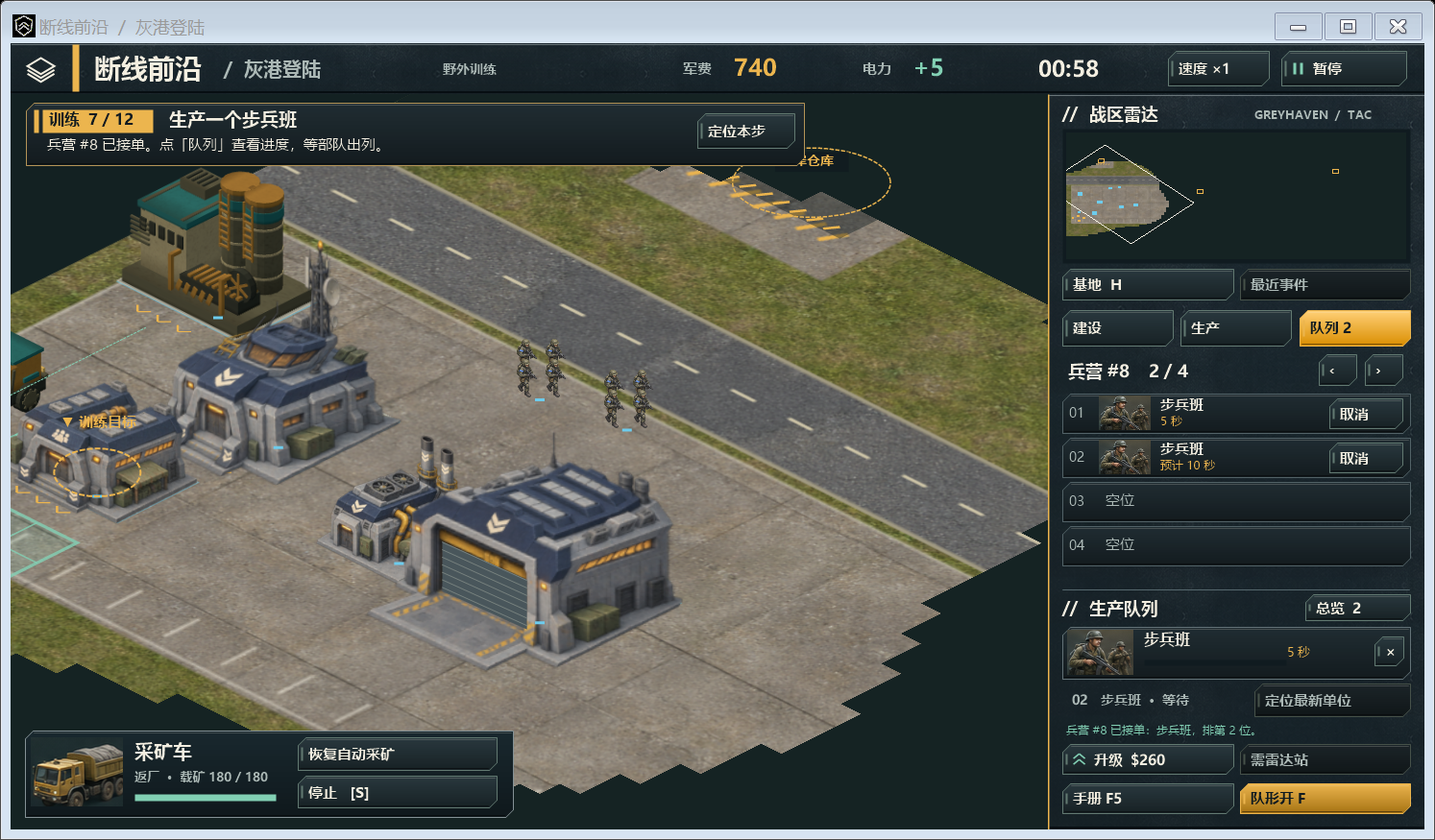
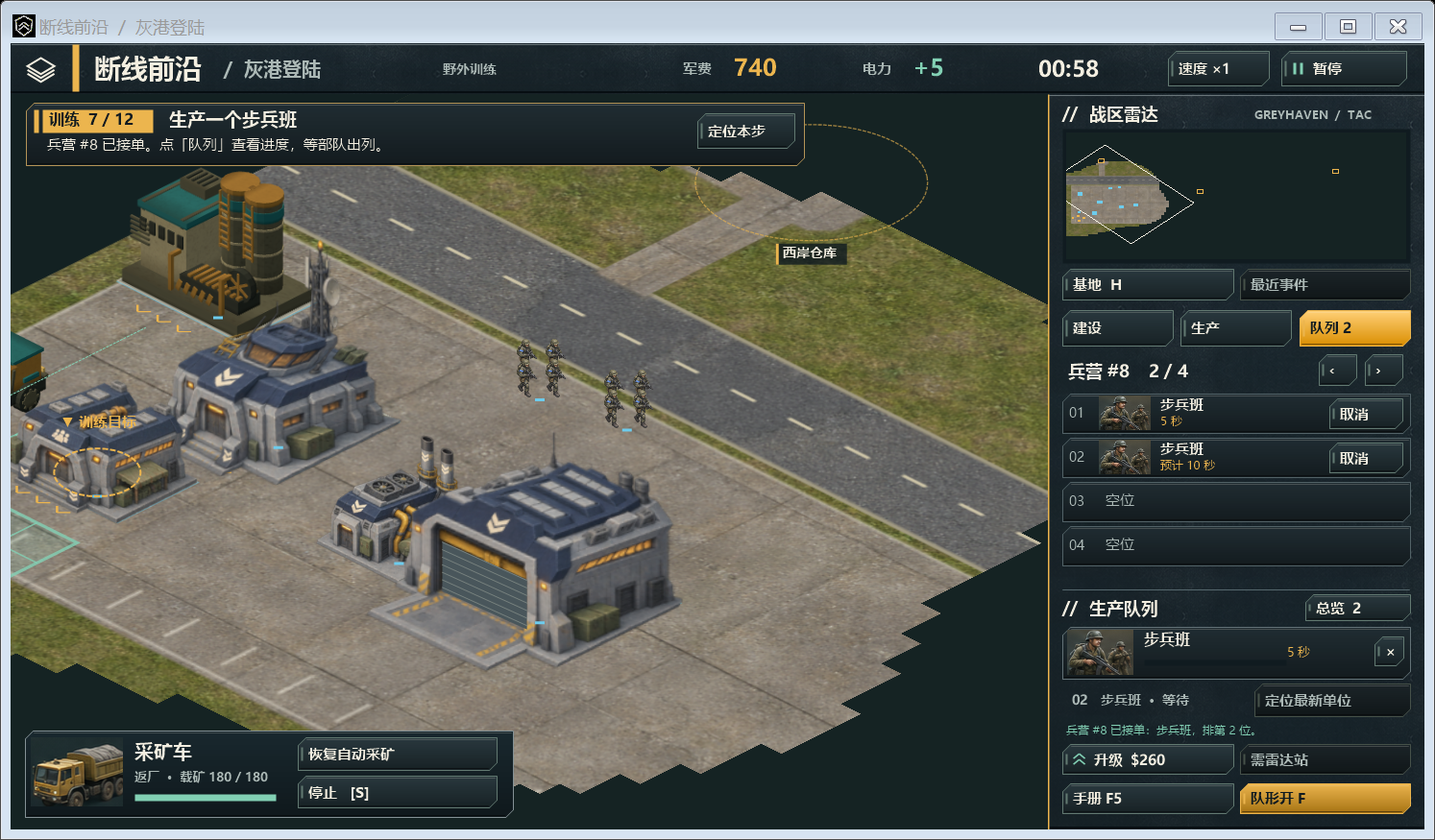
修正仓库接地与车道，支持战场八向边缘滚屏

Changed region(s): [[0.4003, 0.1851, 0.6466, 0.3703]]

diff --git a/src/IsometricField.cs b/src/IsometricField.cs
@@ -14,6 +14,24 @@ partial class CommandWindow {
  PointF WorldOf(PointF s){float a=(s.X-MW*.5f)/(Axis*zoom),b=(s.Y-MapTop-MH*.5f)/(Rise*zoom);return new PointF(camera.X+(b+a)/2,camera.Y+(b-a)/2);}
  void CenterAt(PointF p){camera=new PointF(Math.Max(0,Math.Min(Campaign.Width,p.X)),Math.Max(0,Math.Min(Campaign.Height,p.Y)));}
  void Pan(float x,float y){CenterAt(WorldOf(new PointF(MW/2+x,MapTop+MH/2+y)));}
+ bool pointerInside;float edgeDwell;
+ void ResetEdgeScroll(){pointerInside=false;edgeDwell=0;}
+ protected override void OnMouseLeave(EventArgs e){base.OnMouseLeave(e);ResetEdgeScroll();}
+ static float EdgeSpeed(float position,float extent){
+  const float band=22;
+  if(position<band)return -(1-position/band);
+  return position>extent-band?(position-extent+band)/band:0;
+ }
+ void EdgeScroll(float dt){
+  if(!pointerInside||briefing||paused||world.Won||world.Lost||drag||panning||
+     mouse.X<0||mouse.X>=MW||mouse.Y<MapTop||mouse.Y>=MapTop+MH){edgeDwell=0;return;}
+  float x=EdgeSpeed(mouse.X,MW),y=EdgeSpeed(mouse.Y-MapTop,MH);
+  if((x==0&&y==0)||hits.Any(h=>h.Box.Contains(mouse))){edgeDwell=0;return;}
+  edgeDwell+=dt;if(edgeDwell<=.12f)return;
+  float ramp=Math.Min(1,(edgeDwell-.12f)/.16f);
+  float speed=660*dt*ramp/Math.Max(1,(float)Math.Sqrt(x*x+y*y));
+  Pan(x*speed,y*speed);
+ }
  protected override void OnMouseWheel(MouseEventArgs e){base.OnMouseWheel(e);var p=ToScreenPoint(e);if(briefing||paused||p.X<0||p.X>=MW||p.Y<MapTop||p.Y>=MapTop+MH)return;
   var before=WorldOf(p);zoom=Math.Max(.62f,Math.Min(3.1f,zoom*(float)Math.Pow(1.18,e.Delta/120.0)));var after=WorldOf(p);CenterAt(new PointF(camera.X+before.X-after.X,camera.Y+before.Y-after.Y));Invalidate();}
  void GroundSpace(Graphics g){var origin=ScreenOf(PointF.Empty);using(var m=new Matrix(Axis*zoom,Rise*zoom,-Axis*zoom,Rise*zoom,origin.X,origin.Y))g.MultiplyTransform(m);}
@@ -89,14 +107,13 @@ partial class CommandWindow {
     }
    }
   }
-  foreach(var site in world.Sites){var p=ScreenOf(site.P);if(p.X< -110||p.X>MW+110||p.Y<MapTop-90||p.Y>MapTop+MH+90)continue;bool seen=world.Explored(0,site.P);Color c=seen&&site.Owner>=0?Team(site.Owner):gold;
-   using(var pen=new Pen(c,1.5f)){pen.DashStyle=DashStyle.Dash;g.DrawEllipse(pen,p.X-41*zoom,p.Y-18*zoom,82*zoom,36*zoom);}
-   Rect(g,p.X-38,p.Y-32,77,21,Color.FromArgb(211,ink));Txt(g,site.Name,p.X-32,p.Y-32,14,c,true);
-   if(seen)Line(g,p.X,p.Y-9,p.X+site.Capture*5,p.Y-9,site.Capture>0?Team(0):Team(1),3);
+  foreach(var site in world.Sites){
+   var p=ScreenOf(site.P);float rx=Axis*zoom*1.414214f*Greyhaven.Site.CaptureRadius,ry=rx*Rise/Axis;
+   using(var pen=new Pen(Color.FromArgb(163,SiteColor(site)),1.3f)){pen.DashStyle=DashStyle.Dash;g.DrawEllipse(pen,p.X-rx,p.Y-ry,2*rx,2*ry);}
   }
-  var objectives=new Queue<Site>(world.Sites.Where(site=>world.Explored(0,Campaign.Middle(site.Body))).OrderBy(site=>site.P.X+site.P.Y));
+  var objectives=new Queue<Site>(world.Sites.Where(site=>world.Explored(0,Campaign.Middle(site.Body))).OrderBy(SiteDepth));
   foreach(var o in world.Units.Where(a=>a.Carrier==null&&world.Visible(a)).OrderBy(a=>a.P.X+a.P.Y)){
-   while(objectives.Count>0&&objectives.Peek().P.X+objectives.Peek().P.Y-82<=o.P.X+o.P.Y)DrawDepot(g,objectives.Dequeue());
+   while(objectives.Count>0&&SiteDepth(objectives.Peek())<=o.P.X+o.P.Y)DrawDepot(g,objectives.Dequeue());
    var p=ScreenOf(o.P);float s=o.T.Size*zoom;
    if(p.X< -s||p.X>MW+s||p.Y<MapTop-s||p.Y>MapTop+MH+s)continue;
    if(selection.Contains(o)){using(var pen=new Pen(teal,2.2f))g.DrawEllipse(pen,p.X-s*.32f,p.Y-s*.13f,s*.64f,s*.31f);}
@@ -108,6 +125,13 @@ partial class CommandWindow {
    }
   }
   while(objectives.Count>0)DrawDepot(g,objectives.Dequeue());
+  foreach(var site in world.Sites){
+   var p=ScreenOf(site.P);float y=p.Y+Greyhaven.Site.CaptureRadius*Rise*1.414214f*zoom+3;
+   if(p.X< -60||p.X>MW+60||y<MapTop-25||y>MapTop+MH)continue;
+   var c=SiteColor(site);Rect(g,p.X-37,y,74,22,Color.FromArgb(208,ink));Rect(g,p.X-37,y,3,22,c);
+   Txt(g,site.Name,p.X-29,y+1,14,pale,true);
+   if(world.Explored(0,site.P))Line(g,p.X-31,y+20,p.X-31+62*Math.Abs(site.Capture)/5,y+20,site.Capture>=0?Team(0):Team(1),2);
+  }
   foreach(var shot in world.Shots){if(!world.Explored(0,shot.A)||!world.Explored(0,shot.B))continue;var a=ScreenOf(shot.A);var b=ScreenOf(shot.B);Line(g,a.X,a.Y-5,b.X,b.Y-5,shot.Shell?gold:Team(shot.Side),2);}
   if(!briefing&&!paused&&!drag&&!panning&&place==null&&!sweep&&selection.Any(u=>u.Deployed&&u.T.Hit>0)&&mouse.X>=0&&mouse.X<MW&&mouse.Y>=MapTop&&mouse.Y<MapTop+MH){
    var under=HitScreen(mouse);
@@ -145,6 +169,8 @@ partial class CommandWindow {
    var q=ScreenOf(basePos);if(site.Body.Contains(location)||InkHit(SiteKey(site),site.Owner==1?1:0,BuildingRect(site.Body,q,zoom),screen))return site.P;
   }return location;
  }
+ float SiteDepth(Site s){var p=Campaign.Middle(s.Body);return p.X+p.Y;}
+ Color SiteColor(Site s){return s.Owner>=0&&world.Explored(0,s.P)?Team(s.Owner):gold;}
  string SiteKey(Site site){return site==world.Sites[0]?"depot":site==world.Sites[1]?"freight":"harbormaster";}
  void DrawDepot(Graphics g,Site site){
   var box=BuildingRect(site.Body,ScreenOf(Campaign.Middle(site.Body)),zoom);
@@ -170,6 +196,46 @@ partial class CommandWindow {
    return MobileHit(o,p,size,screen);
   });
  }
+ // Bake the apron using the map's own concrete brush in world coordinates.
+ // The driveway terminates in the nearest road; neither the yard nor its shadow is a sprite backdrop.
+ void DrawDepotYard(Graphics g,Site site,TextureBrush concrete){
+  var lot=site.Body;var p=site.P;float left=lot.Left-7,top=lot.Top-7,right=p.X+36,bottom=Math.Max(lot.Bottom+8,p.Y+30);
+  var road=Campaign.Roads[0];float roadEdge=p.Y<road.Top?road.Top:road.Bottom;
+  float laneX=p.X+4,laneW=29;
+  var drive=RectangleF.FromLTRB(laneX-laneW/2,Math.Min(roadEdge-2,p.Y),laneX+laneW/2,Math.Max(roadEdge+2,p.Y));
+  using(var shoulder=new Pen(Color.FromArgb(71,105,95,72),4))g.DrawRectangle(shoulder,drive.X,drive.Y,drive.Width,drive.Height);
+  g.FillRectangle(concrete,drive);
+  float trackEnd=p.Y<road.Top?bottom:top;
+  for(int side=-1;side<=1;side+=2)Line(g,laneX+side*8,trackEnd,laneX+side*8,roadEdge,Color.FromArgb(36,58,55,48),2);
+  var yard=new[]{new PointF(left+5,top),new PointF(right-11,top),new PointF(right,top+11),new PointF(right,bottom-9),
+   new PointF(right-9,bottom),new PointF(left+9,bottom),new PointF(left,bottom-9),new PointF(left,top+5)};
+  for(int border=6;border>=2;border-=2)using(var gravel=new Pen(Color.FromArgb(37,121,111,90),border))g.DrawPolygon(gravel,yard);
+  // A worn gravel shoulder breaks the hard cut between concrete and turf.
+  var noise=new Random((int)lot.X);
+  for(int n=0;n<yard.Length;n++){
+   var a=yard[n];var b=yard[(n+1)%yard.Length];int count=(int)Campaign.Dist(a,b);
+   for(int j=0;j<count;j++){
+    float t=(float)noise.NextDouble(),gx=a.X+(b.X-a.X)*t+noise.Next(-3,4),gy=a.Y+(b.Y-a.Y)*t+noise.Next(-3,4);
+    Rect(g,gx,gy,1.5f,1,Color.FromArgb(75,134,125,103));
+   }
+  }
+  g.FillPolygon(concrete,yard);
+  // Keep the entrance flush instead of drawing a curb across the driveway.
+  float lip=p.Y<road.Top?bottom:top;g.FillRectangle(concrete,laneX-laneW/2,lip-2,laneW,4);
+  using(var joint=new Pen(Color.FromArgb(56,66,65,55),.7f)){
+   for(float x=lot.Right+7;x<right-7;x+=22)g.DrawLine(joint,x,top+6,x,bottom-6);
+   g.DrawLine(joint,left+5,lot.Bottom+4,right-5,lot.Bottom+4);
+  }
+  float drainY=lot.Bottom+12;
+  Rect(g,lot.Left+7,drainY,lot.Width-14,2.8f,C("#67655c"));
+  for(float x=lot.Left+8;x<lot.Right-7;x+=3)Line(g,x,drainY+.3f,x,drainY+2,C("#403f3a"),.85f);
+  for(int i=0;i<5;i++)Line(g,lot.Left+4+i*8,lot.Bottom+7,lot.Left+7+i*8,lot.Bottom+10,C("#b9a16a"),1.4f);
+  // A cast shadow and a tighter contact shadow use the same footprint as navigation.
+  for(int n=4;n>=1;n--){
+   var shadow=lot;shadow.Inflate(n*.6f,n*.6f);shadow.Offset(n*1.05f,n*.45f);
+   Rect(g,shadow.X,shadow.Y,shadow.Width,shadow.Height,Color.FromArgb(16,29,30,27));
+  }
+ }
  Bitmap MakeGround(){
   using(var materials=Raw("materials")){
    var bmp=new Bitmap(Campaign.Width,Campaign.Height,PixelFormat.Format32bppPArgb);
@@ -179,7 +245,7 @@ partial class CommandWindow {
     try{for(int i=0;i<4;i++){using(var t=materials.Clone(new Rectangle(i%2*w+2,i/2*h+2,w-4,h-4),PixelFormat.Format32bppPArgb)){
      tiles[i]=new TextureBrush(t,WrapMode.TileFlipXY);tiles[i].ScaleTransform(.38f,.38f);}}
      g.FillRectangle(tiles[0],0,0,bmp.Width,bmp.Height);g.FillRectangle(tiles[2],0,0,bmp.Width,101);
-     foreach(var pad in new[]{new Rectangle(25,402,668,288),new Rectangle(800,100,880,610),new Rectangle(565,396,161,124),new Rectangle(115,160,119,110),new Rectangle(1230,710,290,210)})g.FillRectangle(tiles[1],pad);
+     foreach(var pad in new[]{new Rectangle(25,402,668,288),new Rectangle(800,100,880,610),new Rectangle(1230,710,290,210)})g.FillRectangle(tiles[1],pad);
      using(var edge=new Pen(C("#bbb4a0"),8)){g.DrawLine(edge,0,100,bmp.Width,100);}
      foreach(var r in Campaign.Roads){using(var p=new Pen(C("#a09981"),5))g.DrawRectangle(p,r.X,r.Y,r.Width,r.Height);g.FillRectangle(tiles[3],r);}
      foreach(var r in Campaign.Roads){bool horiz=r.Width>r.Height;using(var pen=new Pen(C("#ccc3a6"),2)){pen.DashPattern=new[]{7f,10f};if(horiz)g.DrawLine(pen,r.Left,r.Top+r.Height/2,r.Right,r.Top+r.Height/2);else g.DrawLine(pen,r.Left+r.Width/2,r.Top,r.Left+r.Width/2,r.Bottom);}}
@@ -187,10 +253,11 @@ partial class CommandWindow {
       using(var pen=new Pen(Color.FromArgb(100,pale),2))g.DrawRectangle(pen,pad);
       for(int i=pad.Left+20;i<pad.Right-14;i+=34)Line(g,i,pad.Bottom-29,i,pad.Bottom-8,Color.FromArgb(128,pale),2);
      }
+     foreach(var site in world.Sites.Take(2))DrawDepotYard(g,site,tiles[1]);
      foreach(int y in new[]{316,400,727,803})for(int i=0;i<7;i++)Rect(g,737+i*8,y,4,8,pale);
      for(int x=80;x<bmp.Width;x+=144){using(var tire=new Pen(C("#454946"),4))g.DrawEllipse(tire,x,91,13,9);}
      for(int i=12;i<bmp.Width;i+=48){Rect(g,i,97,7,5,ink);Rect(g,i,97,6,2,gold);}
-     foreach(var s in world.Sites){for(int i=0;i<7;i++)Line(g,s.P.X-42+i*13,s.P.Y+32,s.P.X-36+i*13,s.P.Y+20,gold,3);}
+     foreach(var s in world.Sites.Skip(2)){for(int i=0;i<7;i++)Line(g,s.P.X-42+i*13,s.P.Y+32,s.P.X-36+i*13,s.P.Y+20,gold,3);}
     }finally{foreach(var t in tiles)if(t!=null)t.Dispose();}
    }return bmp;
   }

diff --git a/src/CommandWindow.cs b/src/CommandWindow.cs
@@ -35,9 +35,9 @@ partial class CommandWindow:Form {
   painted["ore"]=OreSprites();
   foreach(var t in Campaign.Types.Where(t=>t.Foot))atlas[t.Key]=WreckSheet(t);
   Restart();pulse.Interval=15;pulse.Tick+=(s,e)=>{double now=watch.Elapsed.TotalSeconds;float dt=(float)Math.Min(.12,now-last);last=now;
-   if(!briefing&&!paused&&!world.Won&&!world.Lost){for(int i=0;i<speed;i++)world.Tick(dt);selection.RemoveAll(o=>!o.Alive||o.Carrier!=null);}
+   if(!briefing&&!paused&&!world.Won&&!world.Lost){if(ContainsFocus&&Control.MouseButtons==MouseButtons.None)EdgeScroll(dt);else edgeDwell=0;for(int i=0;i<speed;i++)world.Tick(dt);selection.RemoveAll(o=>!o.Alive||o.Carrier!=null);}
    if(!briefing||hudDirty)Invalidate();};pulse.Start(); FormClosed+=(s,e)=>{pulse.Stop();pulse.Dispose();if(timerPrecision)timeEndPeriod(1);ground.Dispose();projectedGround.Dispose();radarGround.Dispose();if(terrainView!=null)terrainView.Dispose();ReleaseFrame();ClearLabelCache();ClearStampCache();foreach(var b in painted.Values)b.Dispose();foreach(var i in atlas.Values)i.Dispose();foreach(var f in fonts.Values)f.Dispose();};
-  Deactivate+=(s,e)=>{frontEnterHeld=false;tHeld=false;selectType=null;if(!briefing&&!world.Won&&!world.Lost)paused=true;drag=false;panning=false;Capture=false;};
+  Deactivate+=(s,e)=>{ResetEdgeScroll();frontEnterHeld=false;tHeld=false;selectType=null;if(!briefing&&!world.Won&&!world.Lost)paused=true;drag=false;panning=false;Capture=false;};
  }
  static Bitmap WreckSheet(TypeInfo t){
   using(var stream=typeof(CommandWindow).Assembly.GetManifestResourceStream("Greyhaven.Art."+t.Key+".png"))
@@ -51,7 +51,7 @@ partial class CommandWindow:Form {
   int dark=1,caption=ColorTranslator.ToWin32(ink),text=ColorTranslator.ToWin32(pale);
   DwmSetWindowAttribute(Handle,20,ref dark,4);DwmSetWindowAttribute(Handle,35,ref caption,4);DwmSetWindowAttribute(Handle,36,ref text,4);
  }
- void Restart(){missionPicker=false;hudDirty=true;drag=false;Capture=false;Array.Clear(bookmarks,0,bookmarks.Length);selectType=null;tHeld=false;markedPoint=null;markedEnemy=null;camera=new PointF(255,465);zoom=1.7f;sweep=false;panning=false;syncMarch=true;queueOpen=false;queueIndex=0;world=new Campaign();selection.Clear();selection.Add(world.Units[0]);briefing=true;paused=false;help=false;army=false;place=null;attack=false;speed=1;}
+ void Restart(){ResetEdgeScroll();missionPicker=false;hudDirty=true;drag=false;Capture=false;Array.Clear(bookmarks,0,bookmarks.Length);selectType=null;tHeld=false;markedPoint=null;markedEnemy=null;camera=new PointF(255,465);zoom=1.7f;sweep=false;panning=false;syncMarch=true;queueOpen=false;queueIndex=0;world=new Campaign();selection.Clear();selection.Add(world.Units[0]);briefing=true;paused=false;help=false;army=false;place=null;attack=false;speed=1;}
  Font F(float size,bool bold){string key=size.ToString()+bold;Font f;if(!fonts.TryGetValue(key,out f))fonts[key]=f=new Font("Microsoft YaHei UI",size,bold?FontStyle.Bold:FontStyle.Regular,GraphicsUnit.Pixel);return f;}
  void Txt(Graphics g,string s,float x,float y,float size,Color c,bool bold=false){var font=F(size,bold);
   if(!drawingClient){using(var b=new SolidBrush(c))g.DrawString(s,font,b,x,y,StringFormat.GenericTypographic);return;}
@@ -235,7 +235,7 @@ partial class CommandWindow:Form {
   }
   attack=false;
  }
- protected override void OnMouseDown(MouseEventArgs e){selectType=null;base.OnMouseDown(e);hudDirty=true;mouse=ToScreenPoint(e);
+ protected override void OnMouseDown(MouseEventArgs e){selectType=null;base.OnMouseDown(e);edgeDwell=0;hudDirty=true;mouse=ToScreenPoint(e);
   if(e.Button==MouseButtons.Left){var b=hits.LastOrDefault(h=>h.Box.Contains(mouse));if(b!=null){b.Run();Invalidate();return;}}
   if(briefing||paused||world.Won||world.Lost||mouse.X<0||mouse.X>=MW||mouse.Y<MapTop||mouse.Y>MapTop+MH)return;
   var p=WorldOf(mouse);
@@ -249,7 +249,7 @@ partial class CommandWindow:Form {
   if(place!=null){if(world.Build(place,p))place=null;return;}
   start=mouse;drag=true;dragged=false;Capture=true;
  }
- protected override void OnMouseMove(MouseEventArgs e){base.OnMouseMove(e);var old=mouse;mouse=ToScreenPoint(e);if(briefing&&old!=mouse)hudDirty=true;if(old!=mouse&&(old.X>=MW||mouse.X>=MW||old.Y<MapTop||mouse.Y<MapTop||old.Y>=MapTop+MH||mouse.Y>=MapTop+MH))hudDirty=true;if(panning){Pan(panPoint.X-mouse.X,panPoint.Y-mouse.Y);panPoint=mouse;Invalidate();return;}if(drag&&Campaign.Dist(start,mouse)>6)dragged=true;}
+ protected override void OnMouseMove(MouseEventArgs e){base.OnMouseMove(e);pointerInside=true;var old=mouse;mouse=ToScreenPoint(e);if(briefing&&old!=mouse)hudDirty=true;if(old!=mouse&&(old.X>=MW||mouse.X>=MW||old.Y<MapTop||mouse.Y<MapTop||old.Y>=MapTop+MH||mouse.Y>=MapTop+MH))hudDirty=true;if(panning){Pan(panPoint.X-mouse.X,panPoint.Y-mouse.Y);panPoint=mouse;Invalidate();return;}if(drag&&Campaign.Dist(start,mouse)>6)dragged=true;}
  protected override void OnMouseUp(MouseEventArgs e){base.OnMouseUp(e);hudDirty=true;if(panning){panning=false;Capture=false;return;}if(!drag)return;drag=false;Capture=false;mouse=ToScreenPoint(e);
   if(mouse.X<0||mouse.X>=MW||mouse.Y<MapTop||mouse.Y>=MapTop+MH){if(!dragged)return;}
   if(dragged){attack=false;if((ModifierKeys&Keys.Shift)==0)selection.Clear();var r=DragRect();foreach(var u in world.Live(0).Where(u=>!u.T.Building&&r.Contains(ScreenOf(u.P))))if(!selection.Contains(u))selection.Add(u);return;}
@@ -259,7 +259,7 @@ partial class CommandWindow:Form {
  protected override void OnKeyDown(KeyEventArgs e){base.OnKeyDown(e);hudDirty=true;if(briefing){if(e.KeyCode==Keys.Enter){if(frontEnterHeld)return;frontEnterHeld=true;}FrontKey(e.KeyCode);return;}
   if(world.Won||world.Lost)return;
   if(e.KeyCode==Keys.Escape&&(place!=null||attack||sweep)){place=null;attack=false;sweep=false;return;}
-  if(e.KeyCode==Keys.Pause||e.KeyCode==Keys.Escape){paused=!paused;help=false;return;}if(e.KeyCode==Keys.F5){paused=true;help=true;return;}if(paused)return;
+  if(e.KeyCode==Keys.Pause||e.KeyCode==Keys.Escape){paused=!paused;edgeDwell=0;help=false;return;}if(e.KeyCode==Keys.F5){paused=true;help=true;return;}if(paused)return;
   if(FieldKey(e))return;
   if(e.KeyCode==Keys.S){foreach(var unit in selection)world.Halt(unit);markedPoint=null;markedEnemy=null;attack=false;world.Radio="所选部队已停止。";}
   if(e.KeyCode==Keys.G)showGrid=!showGrid;

diff --git a/tests/WindowChecks.cs b/tests/WindowChecks.cs
@@ -16,7 +16,7 @@ class WindowChecks {
  }
  [STAThread]static int Main(string[] args){try{Run(args);return 0;}catch(Exception e){Console.Error.WriteLine(e.Message);Console.Error.WriteLine(e.StackTrace);return 1;}}
  static void Run(string[] args){
-  using(var f=new CommandWindow()){if(args.Length==1&&args[0]=="--window"){f.ProfileWindow();return;}if(args.Length==1&&args[0]=="--profile"){f.ProfileBattle();return;}if(args.Length==2&&args[0]=="--mine"){f.RecordOreTrip(args[1]);return;}if(args.Length==2&&args[0]=="--drive"){f.RecordStreetTurn(args[1]);return;}f.CheckFocusAndMining();if(args.Length>0)f.CheckScreenTravel(args[0]);f.CheckPlates(args.Length==0?null:Path.Combine(Path.GetDirectoryName(args[0]),"角度校准.png"));Frame(f,args.Length==0?null:Path.Combine(Path.GetDirectoryName(args[0]),"主界面.png"));Press(f,220,571);
+  using(var f=new CommandWindow()){if(args.Length==1&&args[0]=="--window"){f.ProfileWindow();return;}if(args.Length==1&&args[0]=="--profile"){f.ProfileBattle();return;}if(args.Length==2&&args[0]=="--mine"){f.RecordOreTrip(args[1]);return;}if(args.Length==2&&args[0]=="--drive"){f.RecordStreetTurn(args[1]);return;}if(args.Length>0)f.CheckWarehouseView(args[0]);f.CheckEdgeScroll();f.CheckFocusAndMining();if(args.Length>0)f.CheckScreenTravel(args[0]);f.CheckPlates(args.Length==0?null:Path.Combine(Path.GetDirectoryName(args[0]),"角度校准.png"));Frame(f,args.Length==0?null:Path.Combine(Path.GetDirectoryName(args[0]),"主界面.png"));Press(f,220,571);
    if(!(bool)Field(f,"missionPicker")||!(bool)Field(f,"briefing"))throw new Exception("start must open mission selection");
    Press(f,190,348);Press(f,865,551);Frame(f,args.Length==0?null:Path.Combine(Path.GetDirectoryName(args[0]),"关卡选择.png"));
    Press(f,1194,651);var standard=(Campaign)Field(f,"world");
@@ -98,6 +98,36 @@ class WindowChecks {
 
 namespace Greyhaven {
 partial class CommandWindow {
+ internal void CheckWarehouseView(string screenshot){
+  StartMission(true,true);var site=world.Sites[0];
+  CenterAt(site.P);zoom=2.4f;world.Spawn("squad",0,site.P.X+12,site.P.Y+14);
+  for(int i=0;i<70;i++)world.Tick(.1f);
+  if(site.Owner!=0)throw new Exception("warehouse was not captured");
+  using(var b=new Bitmap(MW,MapTop+MH))using(var g=Graphics.FromImage(b)){
+   scale=1;ox=oy=0;g.SmoothingMode=System.Drawing.Drawing2D.SmoothingMode.AntiAlias;DrawBattle(g);
+   using(var crop=b.Clone(new Rectangle(MW/2-266,MapTop+MH/2-246,532,410),b.PixelFormat))
+    crop.Save(Path.Combine(Path.GetDirectoryName(screenshot),"西岸仓库.png"),System.Drawing.Imaging.ImageFormat.Png);
+  }
+  Restart();
+ }
+ internal void CheckEdgeScroll(){
+  StartMission(true,true);camera=new PointF(800,500);scale=1;ox=oy=0;var home=camera;
+  Action<int,int> point=(x,y)=>OnMouseMove(new MouseEventArgs(MouseButtons.None,0,x,y,0));
+  Action advance=()=>{for(int i=0;i<20;i++)EdgeScroll(.02f);};
+  for(int dx=-1;dx<=1;dx++)for(int dy=-1;dy<=1;dy++){
+   camera=home;ResetEdgeScroll();point(dx==0?MW/2:dx<0?1:MW-1,MapTop+(dy==0?MH/2:dy<0?1:MH-1));
+   EdgeScroll(.02f);if(camera!=home)throw new Exception("passing edge should not pan");advance();
+   var screen=ScreenOf(home);float x=MW*.5f-screen.X,y=MapTop+MH*.5f-screen.Y;
+   if((dx==0?Math.Abs(x)>.01:Math.Sign(x)!=dx)||(dy==0?Math.Abs(y)>.01:Math.Sign(y)!=dy))throw new Exception("edge direction");
+  }
+  camera=home;point(MW+6,300);advance();if(camera!=home)throw new Exception("sidebar pan");
+  point(0,300);OnMouseLeave(EventArgs.Empty);advance();if(camera!=home)throw new Exception("pan outside window");
+  point(0,300);paused=true;advance();paused=false;drag=true;advance();drag=false;
+  hits.Add(new HitBox{Box=new RectangleF(0,280,22,40)});advance();hits.Clear();if(camera!=home)throw new Exception("pan behind overlay or while dragging");
+  camera=new PointF(Campaign.Width,0);point(MW-1,MapTop+MH/2);advance();
+  if(camera.X!=Campaign.Width||camera.Y!=0)throw new Exception("world edge clamp");
+  Restart();Console.WriteLine("Edge pan: eight directions, dwell, map bounds, sidebar, mouse leave, pause and drag passed.");
+ }
  internal void CheckFocusAndMining(){
   StartMission(true,true);var near=world.Live(0).First(u=>u.T.Key=="squad");
   var far=world.Spawn("squad",0,1480,840);var enemy=world.Spawn("squad",1,242,402);

diff --git a/src/FieldConsole.cs b/src/FieldConsole.cs
@@ -24,10 +24,6 @@ partial class CommandWindow {
    if(o.T.Key=="barracks"){DrawTiles(g,Campaign.Muster(lot),teal,true);foreach(var seat in o.Berths)Rect(g,seat.X-3,seat.Y-3,6,6,gold);}
    for(int i=-1;i<=1;i++){float x=o.P.X+i*12,y=gate.Top+8;Line(g,x-4,y,x,y+4,gold);Line(g,x,y+4,x+4,y,gold);}
   }
-  foreach(var s in world.Sites.Take(2)){
-   var p=s.P;Rect(g,p.X-42,p.Y-25,84,50,Color.FromArgb(110,ink));
-   for(int i=0;i<8;i++)Line(g,p.X-39+i*10,p.Y+24,p.X-35+i*10,p.Y+18,gold,2);
-  }
   if(place!=null||showGrid){using(var pen=new Pen(Color.FromArgb(65,pale))){
    for(int x=0;x<Campaign.Width;x+=Campaign.Tile)g.DrawLine(pen,x,100,x,Campaign.Height);
    for(int y=120;y<Campaign.Height;y+=Campaign.Tile)g.DrawLine(pen,0,y,Campaign.Width,y);}}
@@ -134,17 +130,18 @@ partial class CommandWindow {
   }
   if(key=="hold")return "保持泊位畅通。运输船靠岸还需 "+Math.Ceiling(Math.Max(0,world.HoldTime-world.Hold))+" 秒。";
   var siteGoal=world.Sites[key=="west"?0:2];
-  if(own.Any(o=>o.T.Foot&&Campaign.Dist(o.P,siteGoal.P)<49))return "我方步兵已进入占领区。请保持驻留，并清除圈内的敌方步兵以继续占领。";
+  if(own.Any(o=>o.T.Foot&&Campaign.Dist(o.P,siteGoal.P)<Greyhaven.Site.CaptureRadius))return "我方步兵已进入占领区。请保持驻留，并清除圈内的敌方步兵以继续占领。";
   if(!selection.Any(o=>o.T.Foot))return "点「定位本步」选中步兵，再左键金圈内的空地。只有步兵能占点。";
   return key=="west"?"左键金圈内的空地，让步兵驻留到仓库变蓝。":"带上步兵和战车。按 A 后左键港务中心，清除守军并占领。";
  }
  bool nearbyPointNeedsFoot(){
-  return selection.Any(o=>!o.T.Building&&!o.T.Foot&&world.Sites.Any(s=>s.Owner!=0&&Campaign.Dist(s.P,o.P)<60&&!world.Live(0).Any(f=>f.T.Foot&&Campaign.Dist(f.P,s.P)<49)));
+  return selection.Any(o=>!o.T.Building&&!o.T.Foot&&world.Sites.Any(s=>s.Owner!=0&&Campaign.Dist(s.P,o.P)<60&&!world.Live(0).Any(f=>f.T.Foot&&Campaign.Dist(f.P,s.P)<Greyhaven.Site.CaptureRadius)));
  }
  void DrawCoach(Graphics g){
   string advice=world.Coach();
   if(!world.Tutorial&&advice==null&&nearbyPointNeedsFoot())advice="车辆可以掩护占点。把一个步兵班带进据点圈内，已装载的步兵要先下车。";
   if(!world.Tutorial&&advice==null)return;
+  hits.Add(new HitBox{Box=new RectangleF(16,MapTop+9,810,65),Run=()=>{}});
   Plate(g,new RectangleF(16,MapTop+9,810,65),panel,C("#b49457"));
   Rect(g,24,MapTop+16,5,24,gold);Rect(g,33,MapTop+16,115,24,gold);
   Txt(g,world.Tutorial?"训练  "+(world.Lesson+1)+" / "+Campaign.Lessons.Length:"战术提醒",40,MapTop+16,16,ink,true);

diff --git a/src/Campaign.cs b/src/Campaign.cs
@@ -23,8 +23,11 @@ public class Piece {
 }
 public class Site {
  public string Name;public PointF P;public int Owner=-1;public float Capture;
- public RectangleF Body {get{return new RectangleF(P.X-65,P.Y-65,48,48);}}
- public Site(string name,int x,int y){Name=name;P=new PointF(x,y);}
+ public const float CaptureRadius=49;
+ public readonly RectangleF Body;
+ public Site(string name,int x,int y,int bodyX,int bodyY){
+  Name=name;P=new PointF(x,y);Body=new RectangleF(bodyX,bodyY,2*Campaign.Tile,2*Campaign.Tile);
+ }
 }
 public class Shot {public PointF A,B;public float Life;public int Side;public bool Shell;}
 public partial class Campaign {
@@ -46,7 +49,7 @@ public partial class Campaign {
   new TypeInfo("miner","采矿车","factory",195,310,0,0,89,38,9,0)};
  public static TypeInfo Info(string k){return Array.Find(Types,t=>t.Key==k);}
  public readonly List<Piece> Units=new List<Piece>();public readonly List<Shot> Shots=new List<Shot>();
- public readonly Site[] Sites={new Site("西岸仓库",172,214),new Site("中央货场",660,444),new Site("港务中心",1330,292)};
+ public readonly Site[] Sites={new Site("西岸仓库",172,214,96,144),new Site("中央货场",660,444,576,408),new Site("港务中心",1330,292,1265,227)};
  public int[] Funds={1150,540};public bool[] Upgraded={false,true};public float Time,Hold,Scan; public bool Landing,Won,Lost;public string Radio="展开工程车，在西南建立登陆基地。";
  int seq,aiTurn,wave;float nextEnemyRefinery=3,aiClock,nextWave=92;bool counter;
  public readonly bool Tutorial,Assisted;
@@ -205,7 +208,7 @@ public partial class Campaign {
   foreach(var o in Units.ToArray())UnitTick(o,dt,power[o.Side]);
   Units.RemoveAll(o=>!o.Alive&&o.Dead>24);
   foreach(var s in Sites){
-   bool blue=Live(0).Any(o=>o.T.Foot&&Dist(o.P,s.P)<49),red=Live(1).Any(o=>o.T.Foot&&Dist(o.P,s.P)<49);
+   bool blue=Live(0).Any(o=>o.T.Foot&&Dist(o.P,s.P)<Site.CaptureRadius),red=Live(1).Any(o=>o.T.Foot&&Dist(o.P,s.P)<Site.CaptureRadius);
    if(blue!=red){s.Capture=Math.Max(-5,Math.Min(5,s.Capture+(blue?1:-1)*dt));
     int owner=s.Capture>=5?0:s.Capture<=-5?1:s.Owner;
     if(owner!=s.Owner){s.Owner=owner;if(owner==0||Explored(0,s.P))SetEvent(s.P,s.Name+"易手");Radio=s.Name+(owner==0?"已由我方控制。":"已被敌军夺取。");}}

diff --git a/tests/CampaignChecks.cs b/tests/CampaignChecks.cs
@@ -168,8 +168,16 @@ class CampaignChecks {
   }
   Check(plant.LastReceipt==180&&hidden.Stock<3,"discover, collect and bank from a hidden field");
  }
+ static void WarehouseCapture(){
+  var w=new Campaign(true);var site=w.Sites[0];var original=(int[])w.Funds.Clone();
+  foreach(var yard in w.Sites.Take(2))Check(yard.Body.X%Campaign.Tile==0&&yard.Body.Y%Campaign.Tile==0&&!Campaign.Roads.Any(r=>r.IntersectsWith(yard.Body)),"warehouse off road and on grid");
+  var foot=w.Spawn("squad",0,site.P.X,site.P.Y);Wait(w,8);
+  Check(site.Owner==0&&w.Funds.SequenceEqual(original),"entry and capture must not pay");
+  foot.P=new PointF(260,580);w.Spawn("squad",1,site.P.X,site.P.Y);Wait(w,20);
+  Check(site.Owner==1&&w.Funds.SequenceEqual(original),"holding and recapturing must not pay");
+ }
  static int Main(){try{Run();return 0;}catch(Exception ex){Console.Error.WriteLine(ex.Message);return 1;}}
- static void Run(){ProspectChecks();OreChecks();ContactChecks();StreetChecks();InfantryWaves();HeadingChecks();ReconAndMarch();Navigation();Training();Play(true);Play(false);var w=new Campaign();var h=Begin(w);var enemy=w.Spawn("tank",1,h.P.X+82,h.P.Y);w.Attack(enemy,h);Wait(w,190);Check(w.Lost,"base loss");
+ static void Run(){WarehouseCapture();ProspectChecks();OreChecks();ContactChecks();StreetChecks();InfantryWaves();HeadingChecks();ReconAndMarch();Navigation();Training();Play(true);Play(false);var w=new Campaign();var h=Begin(w);var enemy=w.Spawn("tank",1,h.P.X+82,h.P.Y);w.Attack(enemy,h);Wait(w,190);Check(w.Lost,"base loss");
   w=new Campaign();var car=w.Spawn("ifv",0,212,431);w.Load(car);Check(w.Units.Any(o=>o.Carrier==car),"embark");w.Load(car);Check(!w.Units.Any(o=>o.Carrier==car),"disembark");
   Console.WriteLine("All checks passed.");}
 }

diff --git a/src/AssemblyInfo.cs b/src/AssemblyInfo.cs
@@ -2,5 +2,5 @@ using System.Reflection;
 [assembly: AssemblyTitle("断线前沿")]
 [assembly: AssemblyProduct("断线前沿 · 灰港登陆")]
 [assembly: AssemblyDescription("现代战争单人即时战略游戏")]
-[assembly: AssemblyVersion("0.10.0.0")]
-[assembly: AssemblyFileVersion("0.10.0.0")]
+[assembly: AssemblyVersion("0.11.0.0")]
+[assembly: AssemblyFileVersion("0.11.0.0")]

diff --git a/README.md b/README.md
@@ -1,7 +1,7 @@
 # 断线前沿 · 灰港登陆
-现代战争单人即时战略游戏，Windows x64 桌面版 v0.10.0。
+现代战争单人即时战略游戏，Windows x64 桌面版 v0.11.0。
 
-**开始游戏**　从 [v0.10.0 发布页](https://github.com/Wenxin666-code/greyhaven-rts/releases/tag/v0.10.0) 下载可执行文件，或在本机项目根目录双击 `断线前沿.exe`。程序在独立窗口中运行，使用 Windows 自带的 .NET Framework 4.x。地图和全部方向图集已嵌入程序，可单独复制 exe，离线游玩。
+**开始游戏**　从 [v0.11.0 发布页](https://github.com/Wenxin666-code/greyhaven-rts/releases/tag/v0.11.0) 下载可执行文件，或在本机项目根目录双击 `断线前沿.exe`。程序在独立窗口中运行，使用 Windows 自带的 .NET Framework 4.x。地图和全部方向图集已嵌入程序，可单独复制 exe，离线游玩。
 
 [查看主界面](docs/主界面.png) · [查看选关页](docs/关卡选择.png)
 
@@ -10,7 +10,7 @@
 战场右侧控制台集中显示雷达、建设、生产和队列。当前订单、进度与下一单常驻右侧；点「队列」可切换设施和取消订单。左下角根据选中单位显示生命值与可用指令。暂停后可重开当前关卡或返回选关。
 
 ## 镜头与编队
-滚轮在指针位置缩放，中键拖动或方向键平移，点小地图定位。按 **G** 显示地面格线和建筑四角。六种基地设施与三座目标建筑都按各自占地校准，四种车辆沿街道的四个正反方向或它们之间的四个方向行驶。同街先走长直段，换街优先在交叉口转向。主战坦克的 64 个车身视图中，八个用于直行，其余用于转动。[查看路口行驶实录](docs/路口行驶.webp)。[查看角度验收图](docs/角度校准.png)。西岸仓库与中央货场是占领据点，港务指挥塔是任务目标。新手教官的「定位本步」也会把镜头带到任务地点。
+鼠标在战场视口的边缘短暂停留即可连续滚屏，越靠边越快，四角可斜向移动。鼠标离开战场即停止。也可滚轮缩放、中键拖动、方向键平移或点击小地图定位。按 **G** 显示地面格线和建筑四角。六种基地设施与三座目标建筑都按各自占地校准，四种车辆沿街道的四个正反方向或它们之间的四个方向行驶。同街先走长直段，换街优先在交叉口转向。主战坦克的 64 个车身视图中，八个用于直行，其余用于转动。[查看路口行驶实录](docs/路口行驶.webp)。[查看角度验收图](docs/角度校准.png)。[查看西岸仓库接地实机图](docs/西岸仓库.png)。西岸仓库与中央货场是占领据点，港务指挥塔是任务目标。新手教官的「定位本步」也会把镜头带到任务地点。
 
 混编下达地面命令时，默认由装甲在前、工程与火炮靠后，以队内最慢单位速度推进。按 F 切换随后发出的行军命令是否同步行速，数字编队仍可单独存取。选中已完工的指挥部、兵营或车辆工厂，左键空地设置集结点。受前置条件限制的生产卡会变暗并列出缺项。
 

diff --git a/docs/design/西岸仓库占领方案.md b/docs/design/西岸仓库占领方案.md
@@ -1,0 +1,12 @@
+# 西岸仓库 · 前线抢修点（待定方案）
+
+建议保留现有步兵占领规则，把西岸仓库设为车辆抢修点。玩家夺取西岸后，可让受损战车就近恢复，再回到中央货场参战。以下参数供首轮试玩，尚未实装。
+
+| 情境 | 建议规则 |
+|---|---|
+| 使用 | 己方步兵占领后，把受损坦克、步兵战车或自行火炮开进装卸场。车辆静止且连续 5 秒未开火、未受击，自动开始抢修。 |
+| 吞吐 | 每次修一辆，先到先修；每秒恢复最大生命值的 2%，到 75% 停止。重伤车辆可恢复行动，工程组仍可在其他地点继续维修。 |
+| 争夺 | 敌方步兵进入占领区即暂停抢修；易手后服务随归属转移。车辆离场、开火或受击时中断，可立即执行移动命令。 |
+| 提示 | 装卸场只标出一个抢修位。选中车辆时显示「抢修中」和预计完成时间；发生争夺时显示「据点争夺中」。 |
+
+首轮验收：把一辆 35% 生命的坦克开入己方仓库，无干扰时 20 秒完成维修（另计 5 秒脱战）；敌人进圈后维修立即暂停。双方适用同一规则，任何状态都不产生军费。中央货场先保持现状，避免短距离内连续覆盖两座抢修点。

diff --git a/CHANGELOG.md b/CHANGELOG.md
@@ -1,5 +1,11 @@
 # 版本记录
 
+## v0.11.0 · 仓库装卸场与鼠标边缘滚屏
+
+- 依照西岸仓库和中央货场的实际占地，重新铺设混凝土装卸场与通向公路的车道。修正基座越界、货场压路和重复标线，补上贴地阴影、碎石过渡、排水沟。遮挡顺序按实际基座计算，占领圈与步兵判定半径一致。
+- 鼠标在战场四边或四角短暂停留即可平移镜头，速度随边缘距离渐变。离开窗口、暂停、框选和中键拖动期间停止自动滚屏，侧栏及悬浮操作区不触发。
+- 新增双方实际占领、持有及夺回仓库时的军费回归检查，保留矿车卸货结算。复测八方向滚屏、边界、完整教程和两种战役打法。
+
 ## v0.10.0 · 灰港指挥台与行动选择
 
 - 新增独立主界面，以原创港区坦克插画作为背景。点「开始游戏」进入选关，再选择野外训练或灰港登陆。灰港登陆提供宽松和标准难度，可在发起行动前查看实际地形、任务目标和首波敌袭时间。
